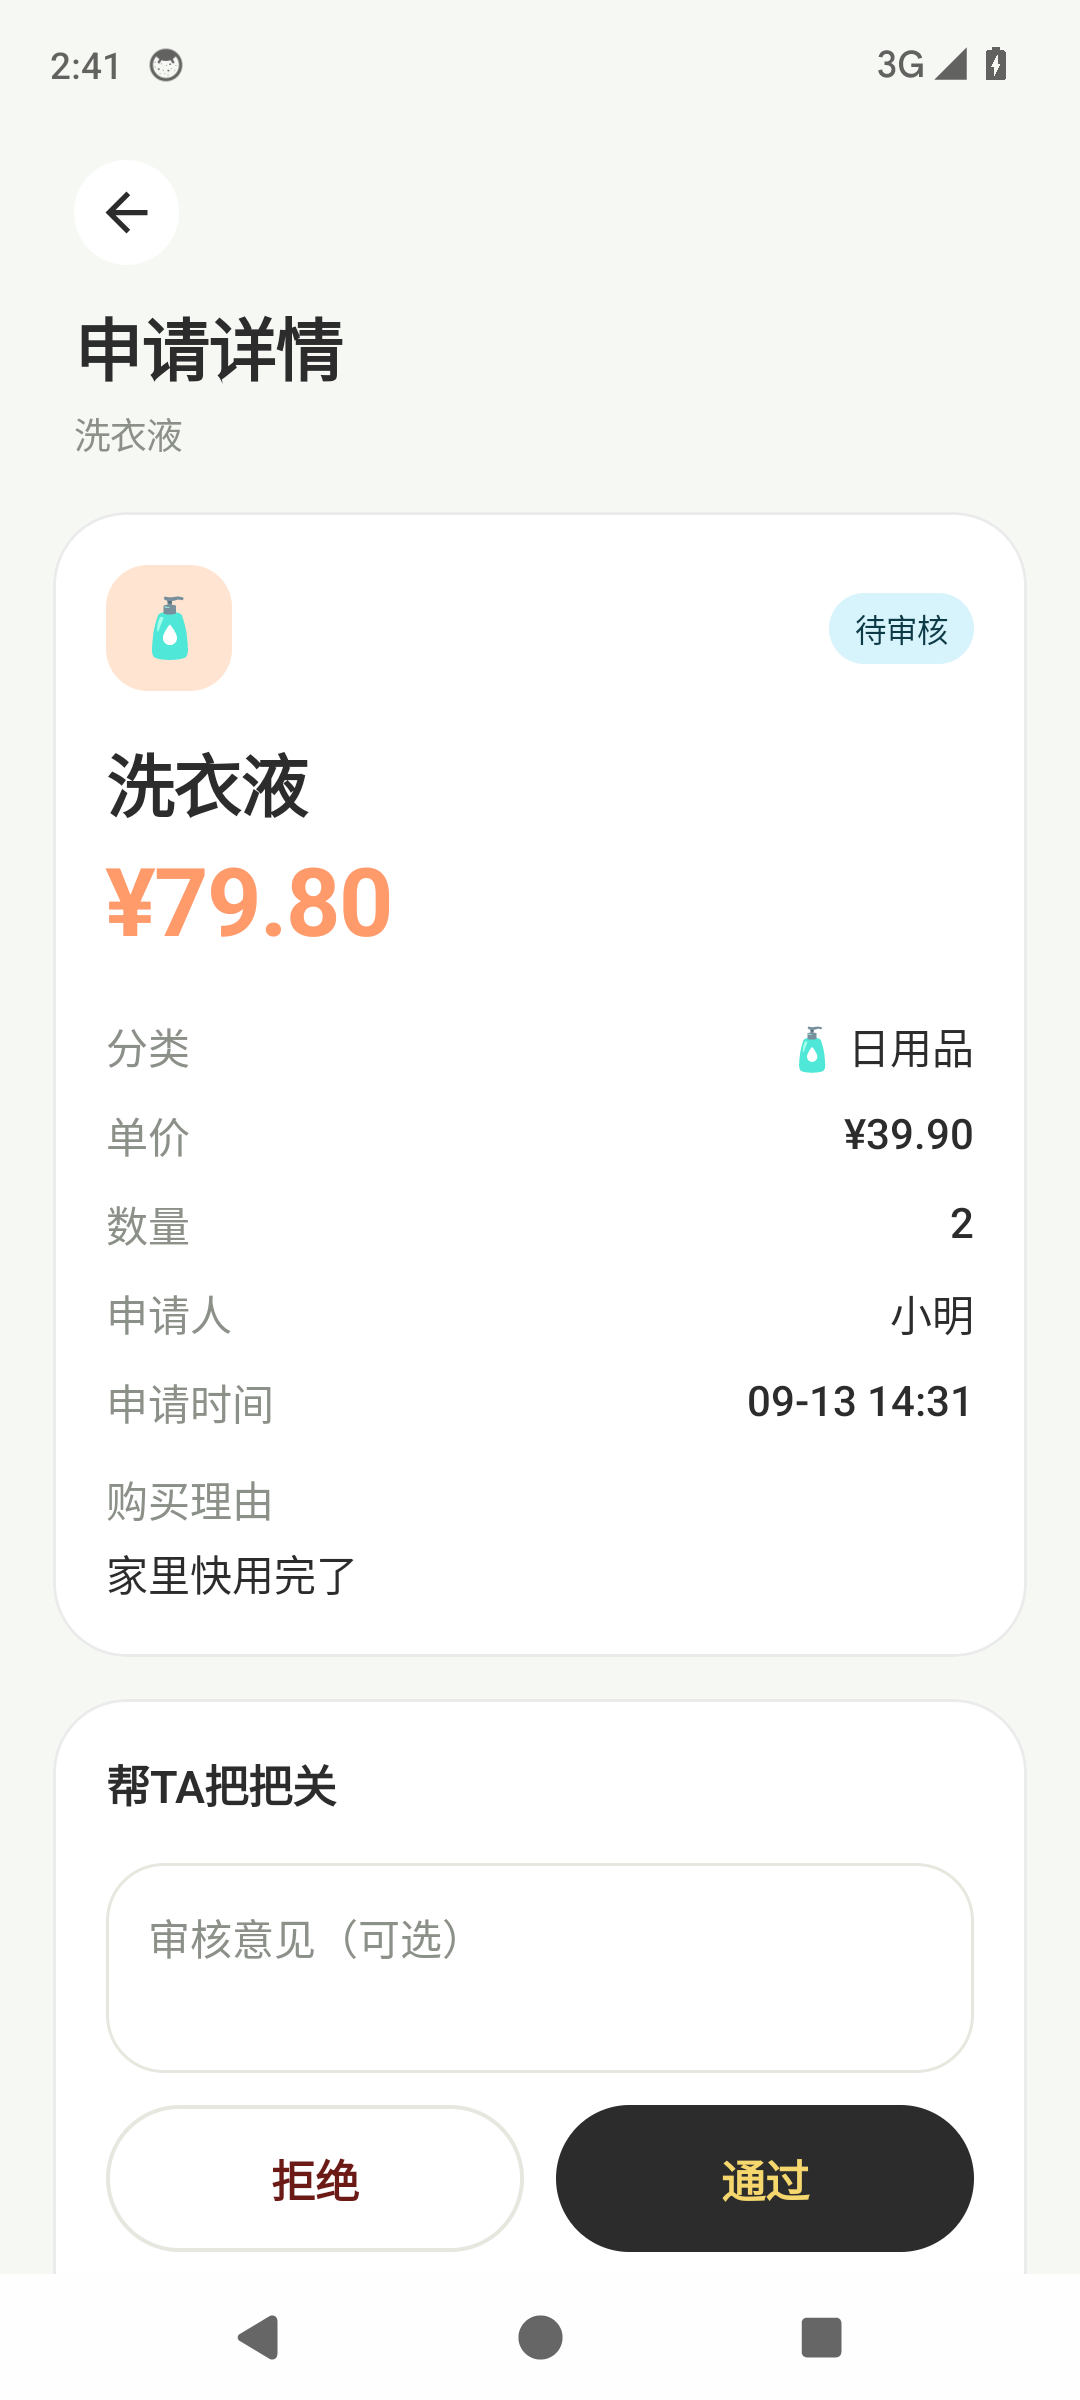
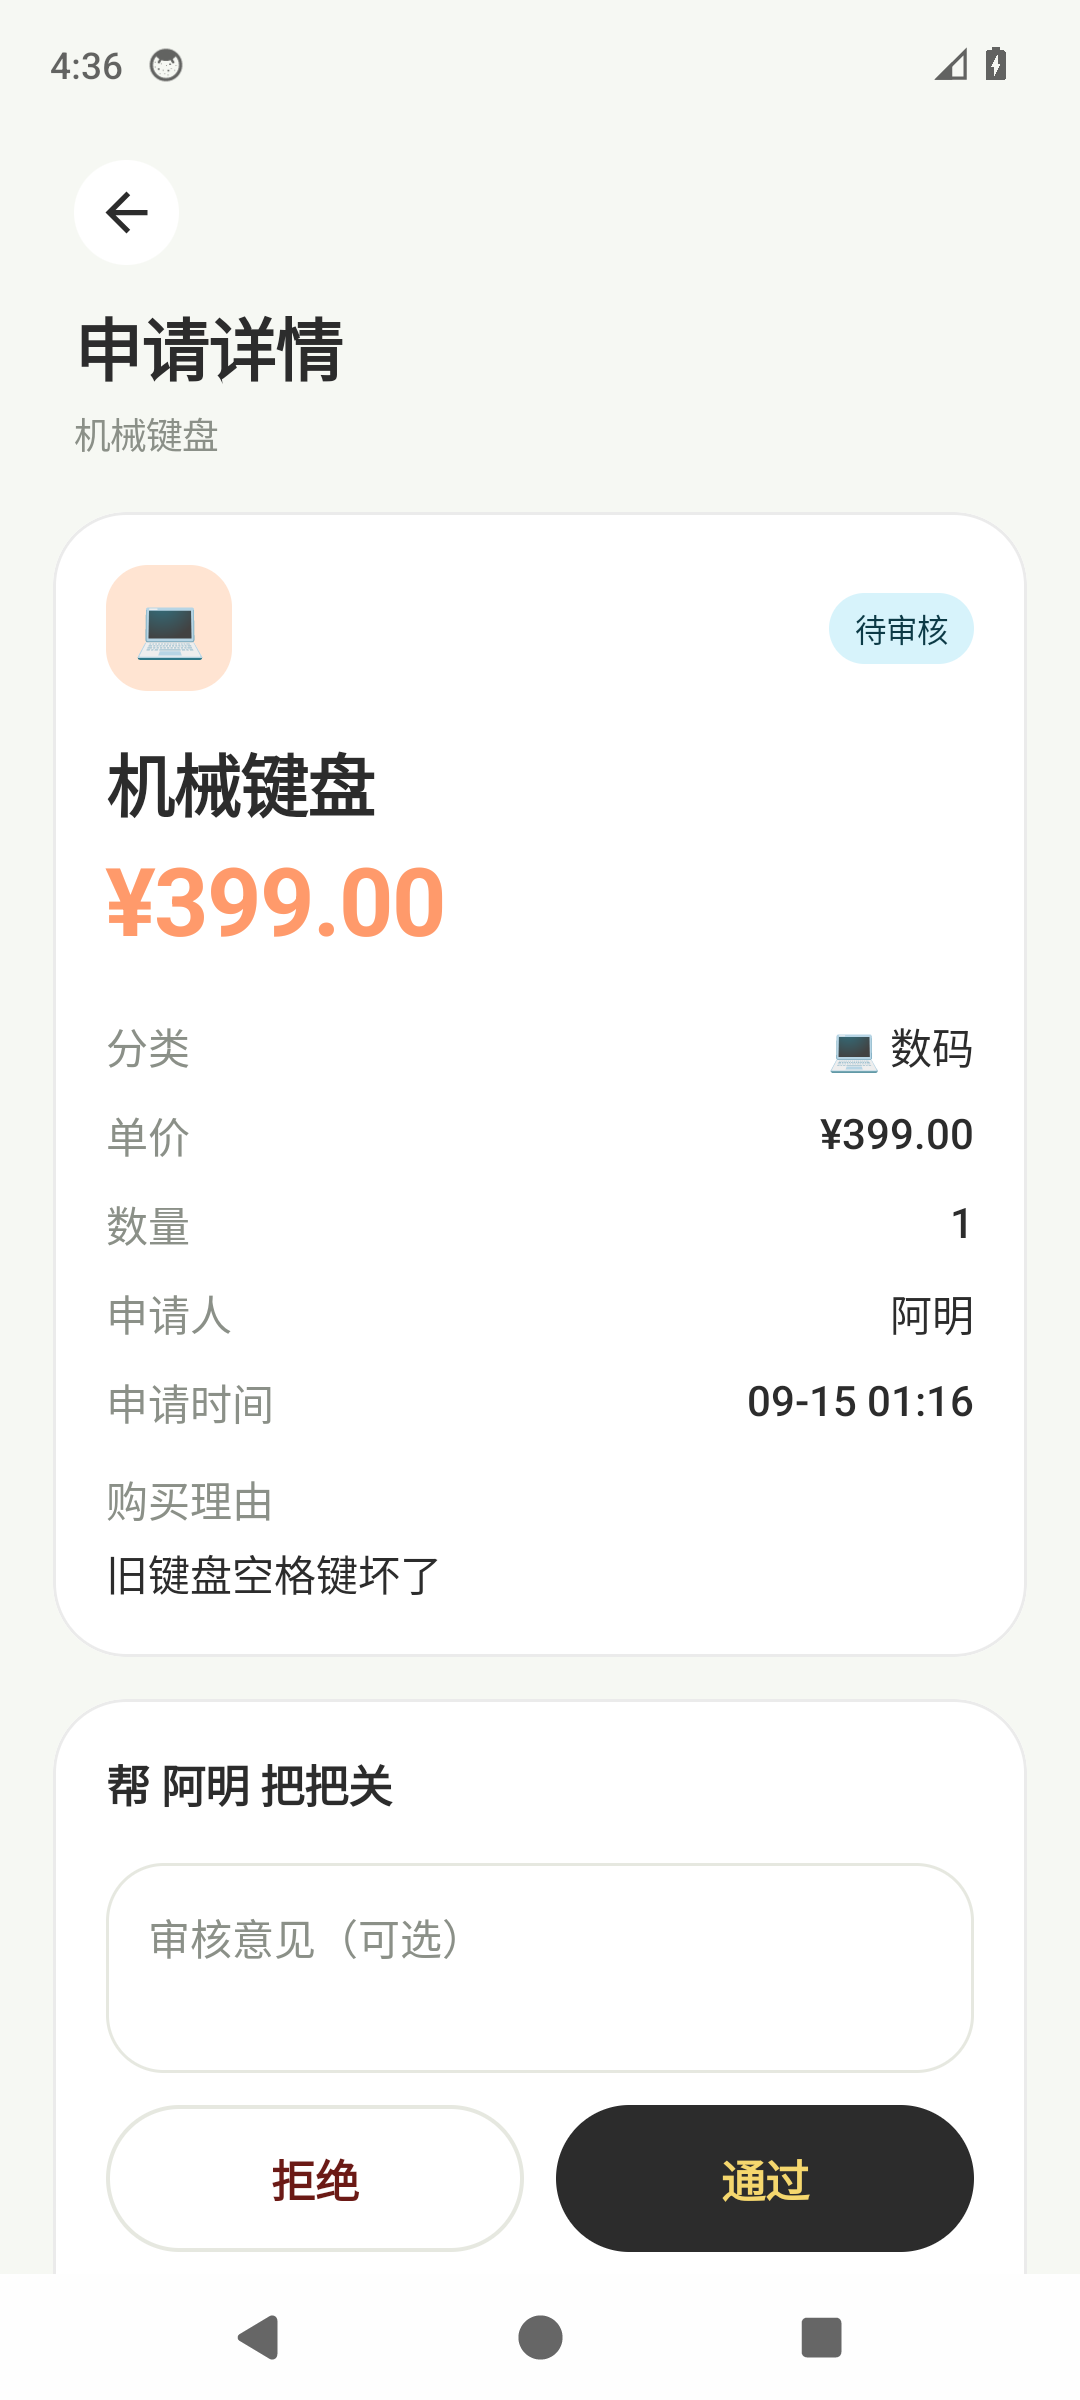
更新 README 与截图：谁都能申请、由对方审核

diff --git a/README.md b/README.md
@@ -2,16 +2,16 @@
 
 两人协作的购买申请审核与月度消费记录。**数据存在自己的后端**，两部手机用同一个家庭码同步申请、审核、照片和账本。
 
-- **申请人**提交购买申请（可附照片）
-- **审核人**通过或拒绝；通过后自动记入当月消费
+- 两个人**谁都可以**发起购买申请（可附照片）
+- 每一条申请由**另一个人**通过或拒绝，不能审自己的；通过后自动记入当月消费
 - 按月看总额、预算、分类占比和明细
 - 对方提交申请或给出审核结果时收到通知：App 打开时每 30 秒刷新，后台约每 15 分钟检查一次（不依赖 Google 推送服务）
 
 ## 两部手机怎么一起用
 
 1. 在电脑或云主机上启动后端（见下方）。
-2. 第一部手机打开 App，填服务器地址（例如 `http://192.168.1.8:8080`），选「申请人」，点 **创建家庭账本**，记下 6 位家庭码。
-3. 第二部手机填**同一个地址**，选「审核人」，输入家庭码，点 **加入**。
+2. 第一部手机打开 App，填服务器地址（例如 `http://192.168.1.8:8080`）和自己的名字，点 **创建家庭账本**，记下 6 位家庭码。
+3. 第二部手机填**同一个地址**和名字，输入家庭码，点 **加入**。
 4. 之后两边的申请、照片和消费都会同步；在「我们」页下拉进入即可看到家庭码。
 
 同一 Wi‑Fi 下用电脑的局域网 IP；不在一个网时，需要把后端放到有公网 IP 的服务器（或内网穿透）。
@@ -49,9 +49,9 @@ cd backend && docker compose up --build
 | --- | --- | --- |
 | ![申请列表](docs/screenshots/request_list.png) | ![新建申请](docs/screenshots/new_request_form.png) | ![加点照片](docs/screenshots/photo_attach.png) |
 
-| 审核人审核 | 小账本 | 我们俩 |
+| 帮对方把关 | 小账本 | 我们俩 |
 | --- | --- | --- |
-| ![审核](docs/screenshots/request_detail_approver.png) | ![月度消费](docs/screenshots/expenses_summary.png) | ![切换身份](docs/screenshots/profile_switch_role.png) |
+| ![审核](docs/screenshots/request_detail_approver.png) | ![月度消费](docs/screenshots/expenses_summary.png) | ![我们俩](docs/screenshots/profile_partner.png) |
 
 | 审核人收到新申请通知 | 申请人收到审核结果 |
 | --- | --- |
